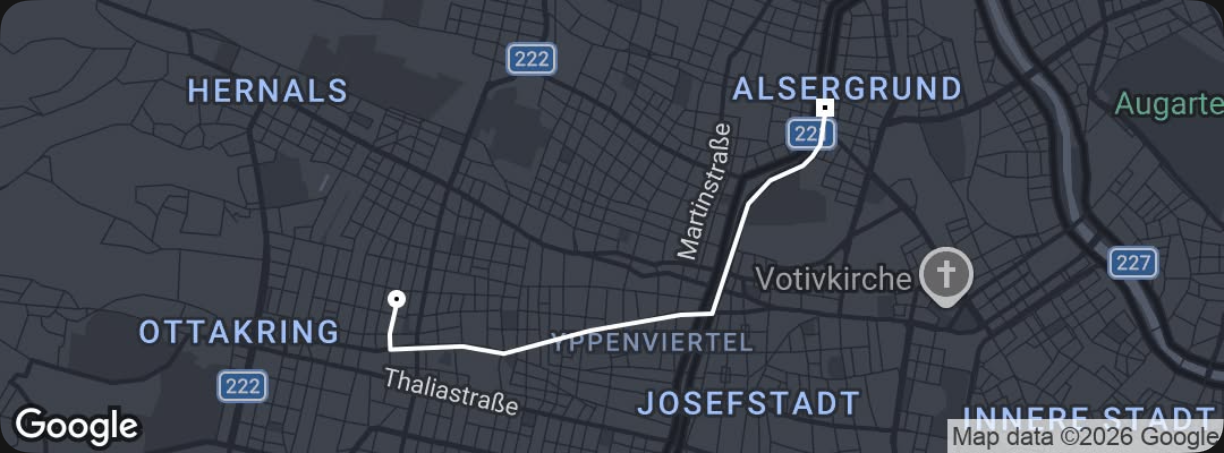
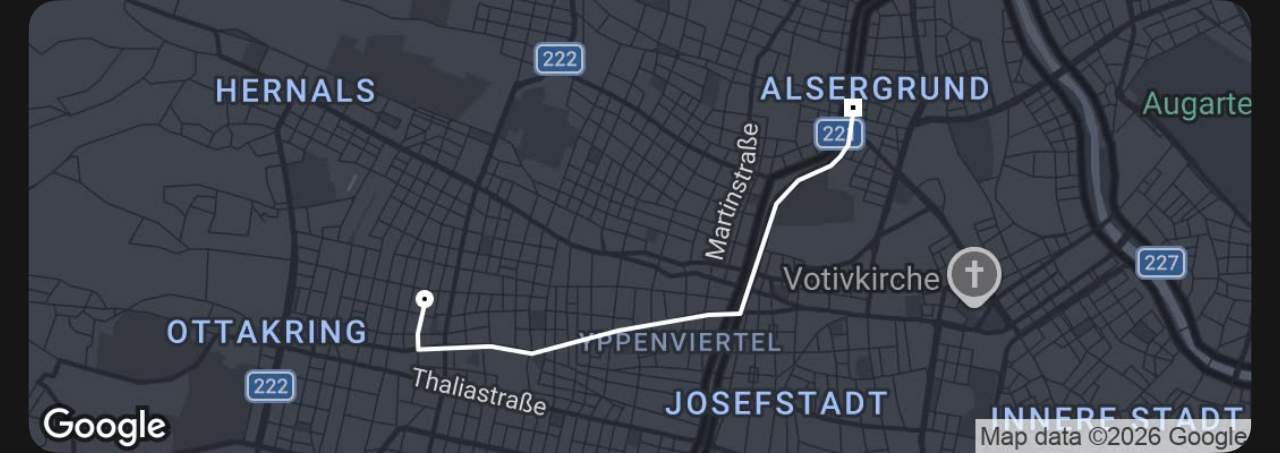
updated map images

diff --git a/lib/ui/activity/activity_details/widgets/trip_map_image.dart b/lib/ui/activity/activity_details/widgets/trip_map_image.dart
@@ -9,12 +9,12 @@ class TripMapImage extends StatelessWidget {
   @override
   Widget build(BuildContext context) {
     return Padding(
-      padding: const EdgeInsets.symmetric(horizontal: 16),
+      padding: const EdgeInsets.symmetric(horizontal: 4),
       child: Container(
         height: 160,
         decoration: BoxDecoration(borderRadius: BorderRadius.circular(12), color: AppColors.black),
         clipBehavior: Clip.antiAlias,
-        child: Image.asset(mapPath, fit: BoxFit.cover, width: double.infinity),
+        child: Image.asset(mapPath, fit: BoxFit.fitWidth, width: double.infinity),
       ),
     );
   }

diff --git a/lib/ui/activity/widgets/rebook_button.dart b/lib/ui/activity/widgets/rebook_button.dart
@@ -2,7 +2,6 @@ import 'dart:developer';
 
 import 'package:flutter/material.dart';
 import 'package:flutter_svg/flutter_svg.dart';
-import 'package:uber/gen/assets.gen.dart';
 import 'package:uber/utils/colors.dart';
 
 class RebookButton extends StatelessWidget {
